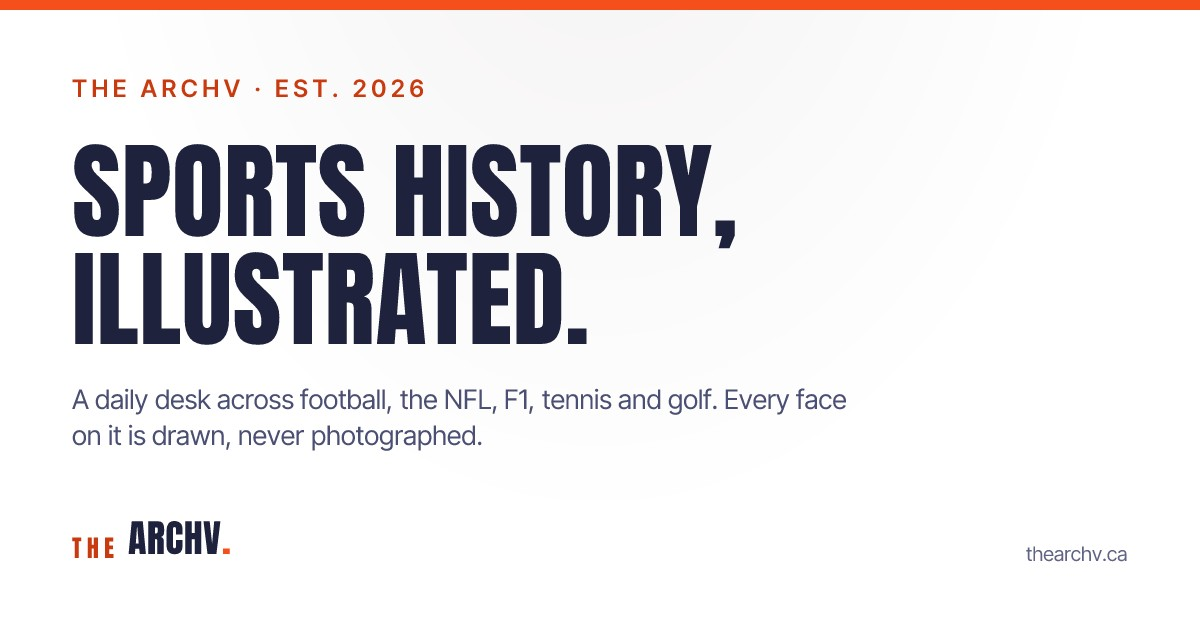
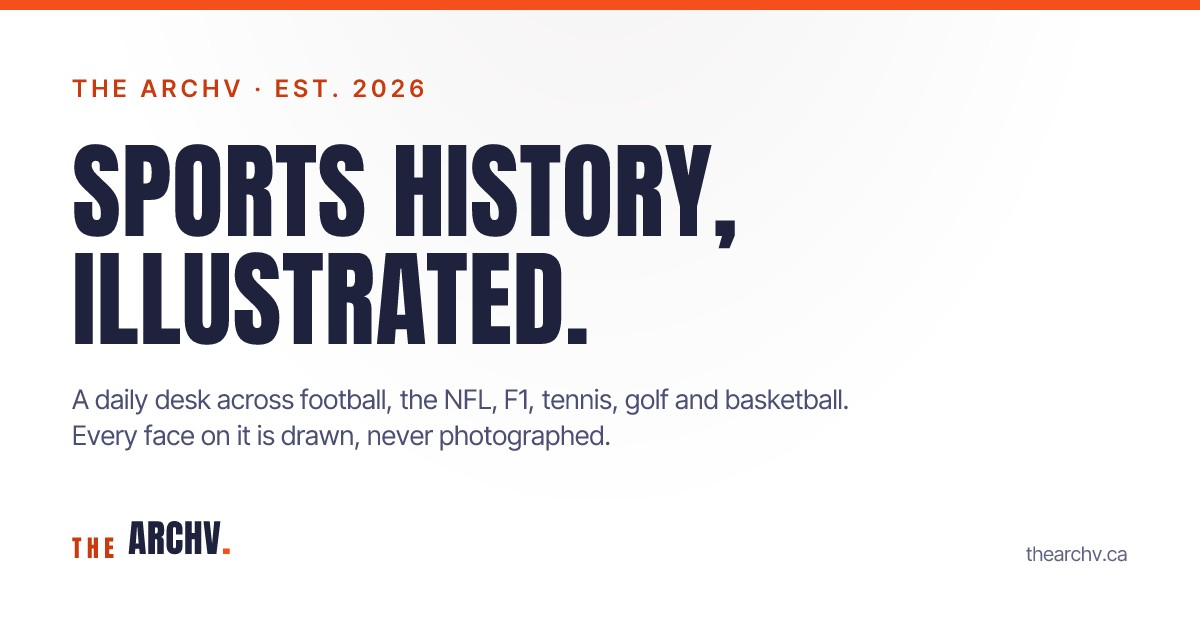
Add the Basketball desk: one lane, NBA and WNBA covered equally
Founder order 2026-09-11. Basketball joins the sport registry after golf
(key basketball, urlBase basketball, lanes ['questions'], order 5, live).
One question a week, filed on Mondays, alternating between the NBA and
the WNBA, two independent named sources.

- src/data/basketballDays.ts: new, empty, byte-stable anchor line for
  archv-site-commit.mjs key `basketball`
- src/data/sports.ts + SPORTS mirror and SPORT_DESK_COPY in page-shell.mjs
- day-data.mjs DAY_LANES row, home.ts DESKS row
- index.html tab row, meta/og description and both JSON-LD sport lists
- /about, /app, /start sport lists; author bio; og.jpg text (npm run og)
- sitemap root /basketball/ (object), search destination
- deploy-site.sh and sync-preview.sh DATA_FILES

Emits /basketball/, /basketball/questions/ and /feed/basketball.json
(empty days); feed/index.json lists basketball with hasEntries false.
verify-csp-pages picks the new pages up from SPORTS: 321 pages OK.
Football and golf article HTML differ only by the new tab link.

Changed region(s): [[0.0617, 0.6635, 0.4933, 0.7238], [0.4933, 0.6032, 0.7092, 0.6635]]

diff --git a/index.html b/index.html
@@ -5,7 +5,7 @@
     <meta name="viewport" content="width=device-width, initial-scale=1.0, viewport-fit=cover" />
 
     <title>The ARCHV: Sports History, Illustrated</title>
-    <meta name="description" content="Illustrated sports history. A daily desk across football, NFL, F1, tennis and golf, plus long reads on the systems that actually run the game. From @thearchvfc." />
+    <meta name="description" content="Illustrated sports history. A daily desk across football, NFL, F1, tennis, golf and basketball, plus long reads on the systems that actually run the game. From @thearchvfc." />
     <meta name="author" content="The ARCHV" />
     <!-- max-image-preview:large is what lets Google Discover and Google Images use the full-size
          illustration rather than a thumbnail; without a robots meta the default is the thumbnail.
@@ -24,7 +24,7 @@
     <meta property="og:type" content="website" />
     <meta property="og:site_name" content="The ARCHV" />
     <meta property="og:title" content="The ARCHV: Sports History, Illustrated" />
-    <meta property="og:description" content="Sport drawn down to the moment that decided it. Football, NFL, F1, tennis and golf, plus long reads on how the game really works." />
+    <meta property="og:description" content="Sport drawn down to the moment that decided it. Football, NFL, F1, tennis, golf and basketball, plus long reads on how the game really works." />
     <meta property="og:url" content="https://thearchv.ca/" />
     <meta property="og:image" content="https://thearchv.ca/og.jpg" />
     <meta property="og:image:width" content="1200" />
@@ -70,7 +70,7 @@
             "alternateName": ["THE ARCHV", "ARCHV", "The ARCHV FC", "thearchvfc"],
             "url": "https://thearchv.ca/",
             "foundingDate": "2026",
-            "description": "A daily illustrated sports desk covering football, the NFL, Formula 1, tennis and golf, with long reads on the systems behind the games. Every entry is checked against two independent sources before it goes up, and no photograph appears anywhere on the site.",
+            "description": "A daily illustrated sports desk covering football, the NFL, Formula 1, tennis, golf and basketball (the NBA and the WNBA), with long reads on the systems behind the games. Every entry is checked against two independent sources before it goes up, and no photograph appears anywhere on the site.",
             "logo": "https://thearchv.ca/brand/logo-badge@192.png",
             "image": "https://thearchv.ca/og.jpg",
             "sameAs": [
@@ -95,7 +95,7 @@
             "url": "https://thearchv.ca/",
             "name": "The ARCHV",
             "alternateName": ["THE ARCHV", "ARCHV", "The ARCHV: Sports History, Illustrated"],
-            "description": "Illustrated sports history: a daily desk across football, the NFL, Formula 1, tennis and golf, plus long reads on the systems behind the games.",
+            "description": "Illustrated sports history: a daily desk across football, the NFL, Formula 1, tennis, golf and basketball, plus long reads on the systems behind the games.",
             "inLanguage": "en-GB",
             "publisher": { "@id": "https://thearchv.ca/#org" },
             "potentialAction": {
@@ -208,6 +208,7 @@
           <a class="sportnav__link" href="/f1/">F1</a>
           <a class="sportnav__link" href="/tennis/">Tennis</a>
           <a class="sportnav__link" href="/golf/">Golf</a>
+          <a class="sportnav__link" href="/basketball/">Basketball</a>
         </div>
       </nav>
     </div>

diff --git a/public/app/index.html b/public/app/index.html
@@ -4,7 +4,7 @@
   <meta charset="UTF-8" />
   <meta name="viewport" content="width=device-width, initial-scale=1.0" />
   <title>The ARCHV. Football with a memory.</title>
-  <meta name="description" content="A daily archive of sport in original illustration. Football, NFL, F1, tennis and golf. No ads, no account, no betting, and one quiet notification a day. Free on iPhone." />
+  <meta name="description" content="A daily archive of sport in original illustration. Football, NFL, F1, tennis, golf and basketball. No ads, no account, no betting, and one quiet notification a day. Free on iPhone." />
   <!-- Indexable since 2026-07-28 (founder call): carries SoftwareApplication schema for app search. -->
   <link rel="canonical" href="https://thearchv.ca/app/" />
   <link rel="icon" href="/favicon.ico" sizes="16x16 32x32 48x48" />
@@ -19,7 +19,7 @@
   <meta http-equiv="Content-Security-Policy" content="default-src 'self'; script-src 'self' 'sha256-rJuB+Kqp9gdahxoCqDx7tpFEQI5eENyEwJnVuFTlZm8=' 'sha256-JiqJSH39ZjzKAiXgBEPvQMMkI+40o3c8mqYE3H7QLyI=' 'sha256-uQL9Zf9KXWTdiV0qFXDKVq9Z+t3jR7l3jxOI698v6tI=' https://us-assets.i.posthog.com https://eu-assets.i.posthog.com; style-src 'self' 'unsafe-inline' https://fonts.googleapis.com; img-src 'self' data:; font-src 'self' https://fonts.gstatic.com; connect-src 'self' https://fpsfnhjxczzyqurzbqpt.supabase.co https://us.i.posthog.com https://us-assets.i.posthog.com https://eu.i.posthog.com https://eu-assets.i.posthog.com; base-uri 'self'; object-src 'none'; frame-src https://thearchvdispatch.substack.com" />
   <meta property="og:type" content="website" />
   <meta property="og:title" content="The ARCHV. Football with a memory." />
-  <meta property="og:description" content="A daily archive of sport in original illustration. Football, NFL, F1, tennis and golf. Free on iPhone." />
+  <meta property="og:description" content="A daily archive of sport in original illustration. Football, NFL, F1, tennis, golf and basketball. Free on iPhone." />
   <meta property="og:url" content="https://thearchv.ca/app/" />
   <meta property="og:image" content="https://thearchv.ca/og.jpg" />
 
@@ -278,7 +278,7 @@
     "offers": { "@type": "Offer", "price": "0", "priceCurrency": "CAD" },
     "url": "https://thearchv.ca/app/",
     "installUrl": "https://apps.apple.com/app/id6786508653",
-    "description": "A daily archive of sport in original illustration. Football, NFL, F1, tennis and golf. No ads, no account, no betting, and one quiet notification a day. Free on iPhone."
+    "description": "A daily archive of sport in original illustration. Football, NFL, F1, tennis, golf and basketball. No ads, no account, no betting, and one quiet notification a day. Free on iPhone."
   }
   </script>
 </head>

diff --git a/public/about/index.html b/public/about/index.html
@@ -4,7 +4,7 @@
   <meta charset="UTF-8" />
   <meta name="viewport" content="width=device-width, initial-scale=1.0, viewport-fit=cover" />
   <title>About The ARCHV</title>
-  <meta name="description" content="The ARCHV is a verification-first illustrated sports publication: a daily archive of football, NFL, F1, tennis and golf, written plainly and drawn in its own house style. Founded and edited by Joseph Bankole." />
+  <meta name="description" content="The ARCHV is a verification-first illustrated sports publication: a daily archive of football, NFL, F1, tennis, golf and basketball, written plainly and drawn in its own house style. Founded and edited by Joseph Bankole." />
   <meta name="robots" content="index,follow,max-image-preview:large" />
   <link rel="canonical" href="https://thearchv.ca/about/" />
   <meta name="theme-color" content="#FFFFFF" />
@@ -22,7 +22,7 @@
   <meta property="og:type" content="website" />
   <meta property="og:site_name" content="The ARCHV" />
   <meta property="og:title" content="About The ARCHV" />
-  <meta property="og:description" content="A verification-first illustrated sports publication. A daily archive of football, NFL, F1, tennis and golf, written plainly and drawn in its own house style." />
+  <meta property="og:description" content="A verification-first illustrated sports publication. A daily archive of football, NFL, F1, tennis, golf and basketball, written plainly and drawn in its own house style." />
   <meta property="og:url" content="https://thearchv.ca/about/" />
   <meta property="og:image" content="https://thearchv.ca/og.jpg" />
   <meta property="og:image:width" content="1200" />

diff --git a/src/data/sports.ts b/src/data/sports.ts
@@ -6,13 +6,13 @@
 // mirror in scripts/shared/page-shell.mjs (`SPORTS`), because those are plain .mjs modules that
 // cannot import a .ts at run time without bundling. If you change a value here, change it there
 // too. The shapes are deliberately identical so a diff is obvious.
-export type SportKey = 'football' | 'nfl' | 'f1' | 'tennis' | 'golf';
+export type SportKey = 'football' | 'nfl' | 'f1' | 'tennis' | 'golf' | 'basketball';
 
 export interface Sport {
   key: SportKey;
   label: string; // full name: 'Football', 'Formula 1'
   shortLabel: string; // tab text: 'F1' not 'Formula 1'
-  urlBase: string; // '' for football (site root), else 'nfl', 'f1', 'tennis', 'golf'
+  urlBase: string; // '' for football (site root), else 'nfl', 'f1', 'tennis', 'golf', 'basketball'
   order: number; // football = 0, always first
   live: boolean; // false = tab renders, section page holds until content
   lanes: string[]; // lane keys valid for this sport
@@ -24,6 +24,7 @@ export const sports: Sport[] = [
   { key: 'f1', label: 'Formula 1', shortLabel: 'F1', urlBase: 'f1', order: 2, live: true, lanes: ['questions'] },
   { key: 'tennis', label: 'Tennis', shortLabel: 'Tennis', urlBase: 'tennis', order: 3, live: true, lanes: ['questions'] },
   { key: 'golf', label: 'Golf', shortLabel: 'Golf', urlBase: 'golf', order: 4, live: true, lanes: ['questions'] },
+  { key: 'basketball', label: 'Basketball', shortLabel: 'Basketball', urlBase: 'basketball', order: 5, live: true, lanes: ['questions'] },
 ];
 
 export const DEFAULT_SPORT: SportKey = 'football';

diff --git a/src/render/home.ts b/src/render/home.ts
@@ -15,6 +15,7 @@
 // NOTHING HERE MAY EMIT A <script> TAG. index.html carries exactly one inline bootstrap script
 // and scripts/check-csp-hash.mjs asserts that; an injected second one would break the CSP gate.
 import type { DayEntry } from '../data/worldCupDays';
+import { basketballDays } from '../data/basketballDays';
 import { f1Days } from '../data/f1Days';
 import { golfDays } from '../data/golfDays';
 import { leaguesDays } from '../data/leaguesDays';
@@ -391,6 +392,7 @@ const DESKS: { label: string; path: string; days: DayEntry[] }[] = [
   { label: 'Formula 1', path: '/f1/questions/', days: f1Days },
   { label: 'Tennis', path: '/tennis/questions/', days: tennisDays },
   { label: 'Golf', path: '/golf/questions/', days: golfDays },
+  { label: 'Basketball', path: '/basketball/questions/', days: basketballDays },
 ];
 
 // The build's own date, in UTC. Actions runs in UTC and every entry's `date` is a UTC calendar

diff --git a/src/data/basketballDays.ts b/src/data/basketballDays.ts
@@ -1,0 +1,11 @@
+// Basketball, the Question Desk. One lane covering the NBA and the WNBA equally: one answered
+// question a week, filed on Mondays, alternating between the two leagues. status 'verified' =
+// filed and checked against two independent named sources.
+// The daily engine (../scripts/archv-site-commit.mjs, key `basketball`) prepends new entries
+// after the anchor line below; keep that line byte-stable. Shares the DayEntry shape with
+// football so the build scripts and feed treat every sport identically. Starts empty by design:
+// the desk opened on 2026-09-11 (founder order).
+import type { DayEntry } from './worldCupDays';
+
+export const basketballDays: DayEntry[] = [
+];

diff --git a/public/start/index.html b/public/start/index.html
@@ -317,7 +317,7 @@
         <a href="https://thearchv.ca/#archive"><img src="/posters/paris-1998.webp" alt="Paris 1998 final poster, illustrated." loading="lazy" /></a>
       </div>
 
-      <p class="multisport">Now covering <a href="https://thearchv.ca/">NFL, Formula 1, Tennis and Golf</a>.</p>
+      <p class="multisport">Now covering <a href="https://thearchv.ca/">NFL, Formula 1, Tennis, Golf and Basketball</a>.</p>
     </div>
   </main>
   <script>

diff --git a/CLAUDE.md b/CLAUDE.md
@@ -200,7 +200,7 @@ the 2026-08-05 Alex Scott case is why. Bare mononyms are left out on purpose.
 schema `archv-feed/3` (bumped 2026-07-22 with the multi-sport expansion; additive over v2,
 adding `sport` on every entry, per-sport feed files and a `sports` array in index.json —
 `section` remains THE FEED KEY: transfer/worldcup/leagues for football, the sport key
-nfl/f1/tennis/golf for new sports, never the lane key): every lane's entries carry `section`; the app renders shelves
+nfl/f1/tennis/golf/basketball for new sports, never the lane key): every lane's entries carry `section`; the app renders shelves
 feed-driven (an empty or missing lane simply does not render). As of Build 11, every
 entry in the transfer, worldcup and leagues lanes (including the today lead/wrap,
 which reuses the same objects) also carries `url`: the absolute canonical article URL,
